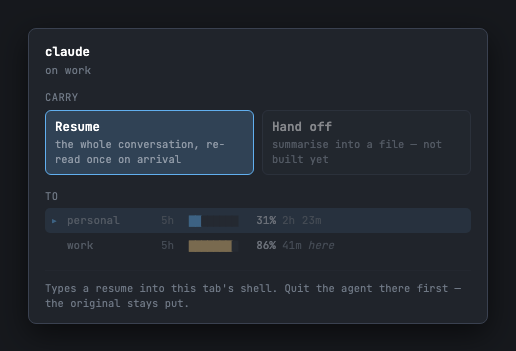
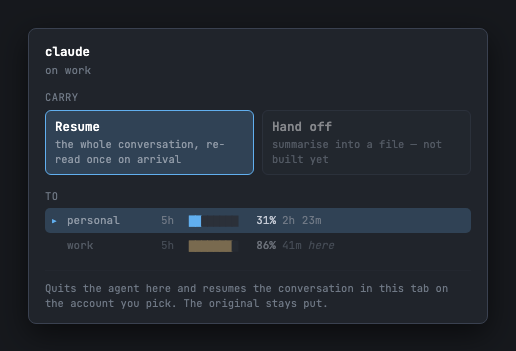
fix: say what Move to... does, and why its rows are greyed out
The footer still told you to quit the agent yourself, which stopped being
true when the move started quitting an idle agent for you. And a tab whose
agent is mid-turn greys every account out with nothing saying why, so the
footer now says that instead.

diff --git a/src/client/move.ts b/src/client/move.ts
@@ -144,8 +144,10 @@ export function openMove(
 
   // Said once, plainly: the transcript is read by the account it moves to, and
   // the conversation it started in keeps its own copy.
-  box.append(el("div", "move-foot",
-    "Types a resume into this tab's shell. Quit the agent there first — the original stays put."));
+  // A busy tab's rows are greyed out, and this is the only place that says why.
+  box.append(el("div", "move-foot", busy
+    ? "The agent here is mid-turn. Let it finish or interrupt it, then move it."
+    : "Quits the agent here and resumes the conversation in this tab on the account you pick. The original stays put."));
 
   back.append(box);
   const close = () => back.remove();
